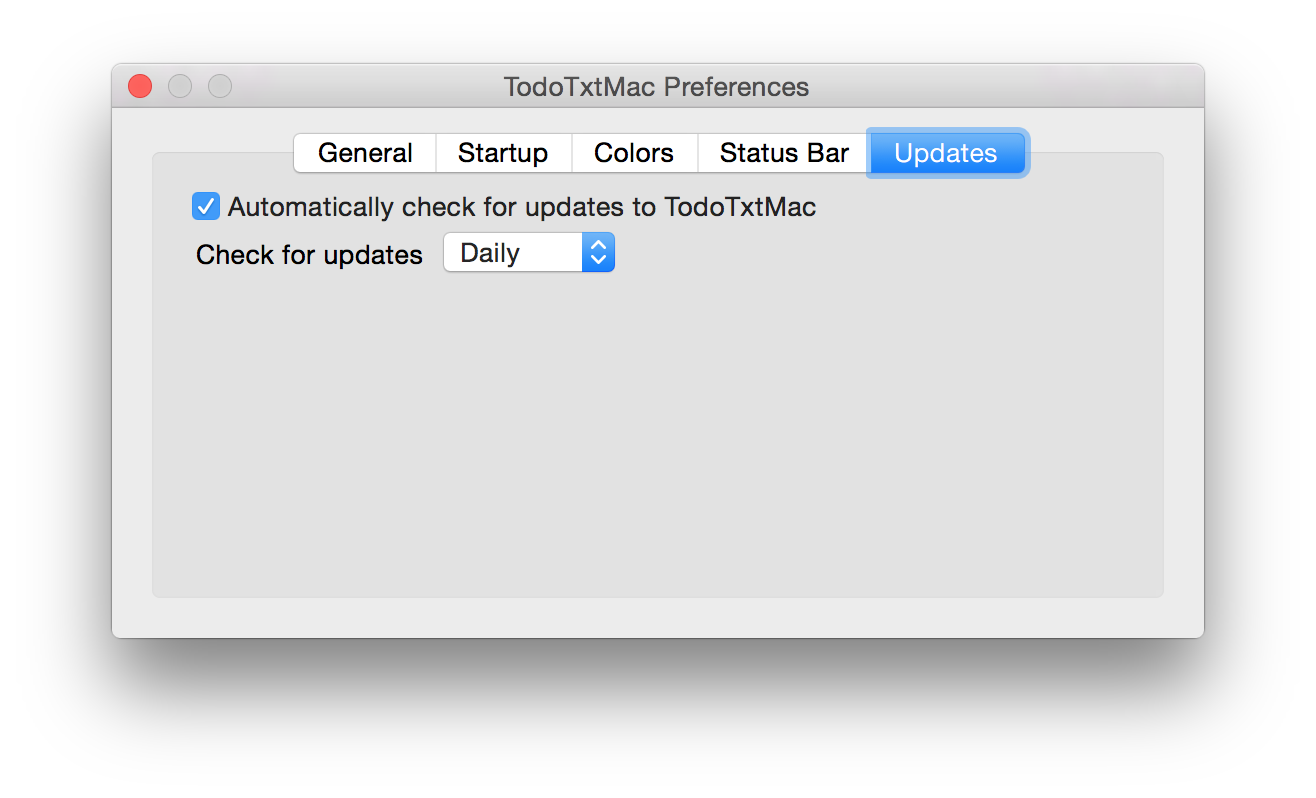
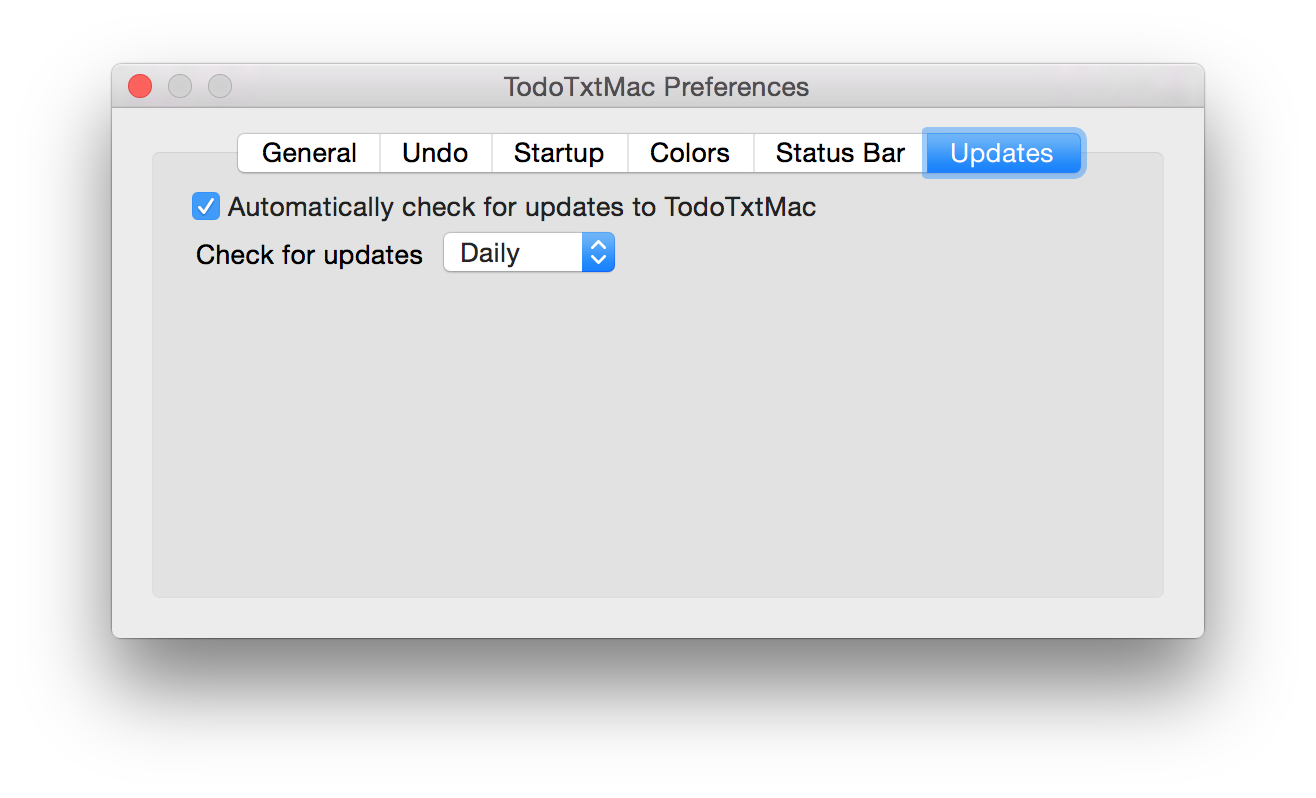
Version 1.6.0 release

Changed region(s): [[0.1558, 0.1504, 0.8412, 0.2406]]

diff --git a/release-notes/release-notes-v1.6.0.html b/release-notes/release-notes-v1.6.0.html
@@ -1,0 +1,20 @@
+<!DOCTYPE html>
+<html class="no-js">
+    <head>
+        <meta charset="utf-8">
+        <title>TodoTxtMac | Release Notes - v1.6.0</title>
+        <meta name="description" content="TodoTxtMac release notes">
+        <meta name="viewport" content="width=device-width, initial-scale=1">
+    </head>
+    <body>
+        <h1>Version 1.6.0</h1>
+        <h2>Enhancements</h2>
+        <ul>
+            <li>Added full undo/redo support (Command+Z, Command+Shift+Z).</li>
+        </ul>
+        <h2>Changes</h2>
+        <ul>
+            <li>To enable undo/redo support that works with TodoTxtMac's aggressive "save after every change" functionality, TodoTxtMac now explicitly saves the file after each change rather than relying on Mac OS X's autosave functionality. If you are working with existing todo.txt files, you will likely not notice any difference. If you are working with an unsaved todo.txt file, however, you now will be prompted to save after every change until you save the file.</li>
+        </ul>
+    </body>
+</html>

diff --git a/index.html b/index.html
@@ -156,6 +156,13 @@ TodoTxtMac is a minimalist, keyboard-driven to-do manager for Mac OS X that conf
 <li>Command+Option+Down: Decrease due date by 1 day</li>
 <li>Command+Option+Left or Command+Option+Right: Remove due date</li>
 </ul><h2>
+
+<a name="undo-redo" class="anchor" href="#undo-redo"><span class="octicon octicon-link"></span></a>Undo/redo</h2>
+<ul>
+<li>Command+Z: Undo</li>
+<li>Command+Shift+Z: Redo</li>
+</ul>
+
 <a name="working-with-files" class="anchor" href="#working-with-files"><span class="octicon octicon-link"></span></a>Working with files</h2>
 
 <ul>
@@ -273,6 +280,10 @@ $ open /Applications/TodoTxtMac.app --args -todo-file ~/Documents/todo.txt
 <h2>General Preferences</h2>
 
 <div><img src="./images/todotxtmac-screenshot-preferences-general.png" alt="TodoTxtMac General Preferences Screenshot"></div>
+
+<h2>Undo Preferences</h2>
+
+<div><img src="./images/todotxtmac-screenshot-preferences-undo.png" alt="TodoTxtMac Undo Preferences Screenshot"></div>
 
 <h2>Startup Preferences</h2>
 
